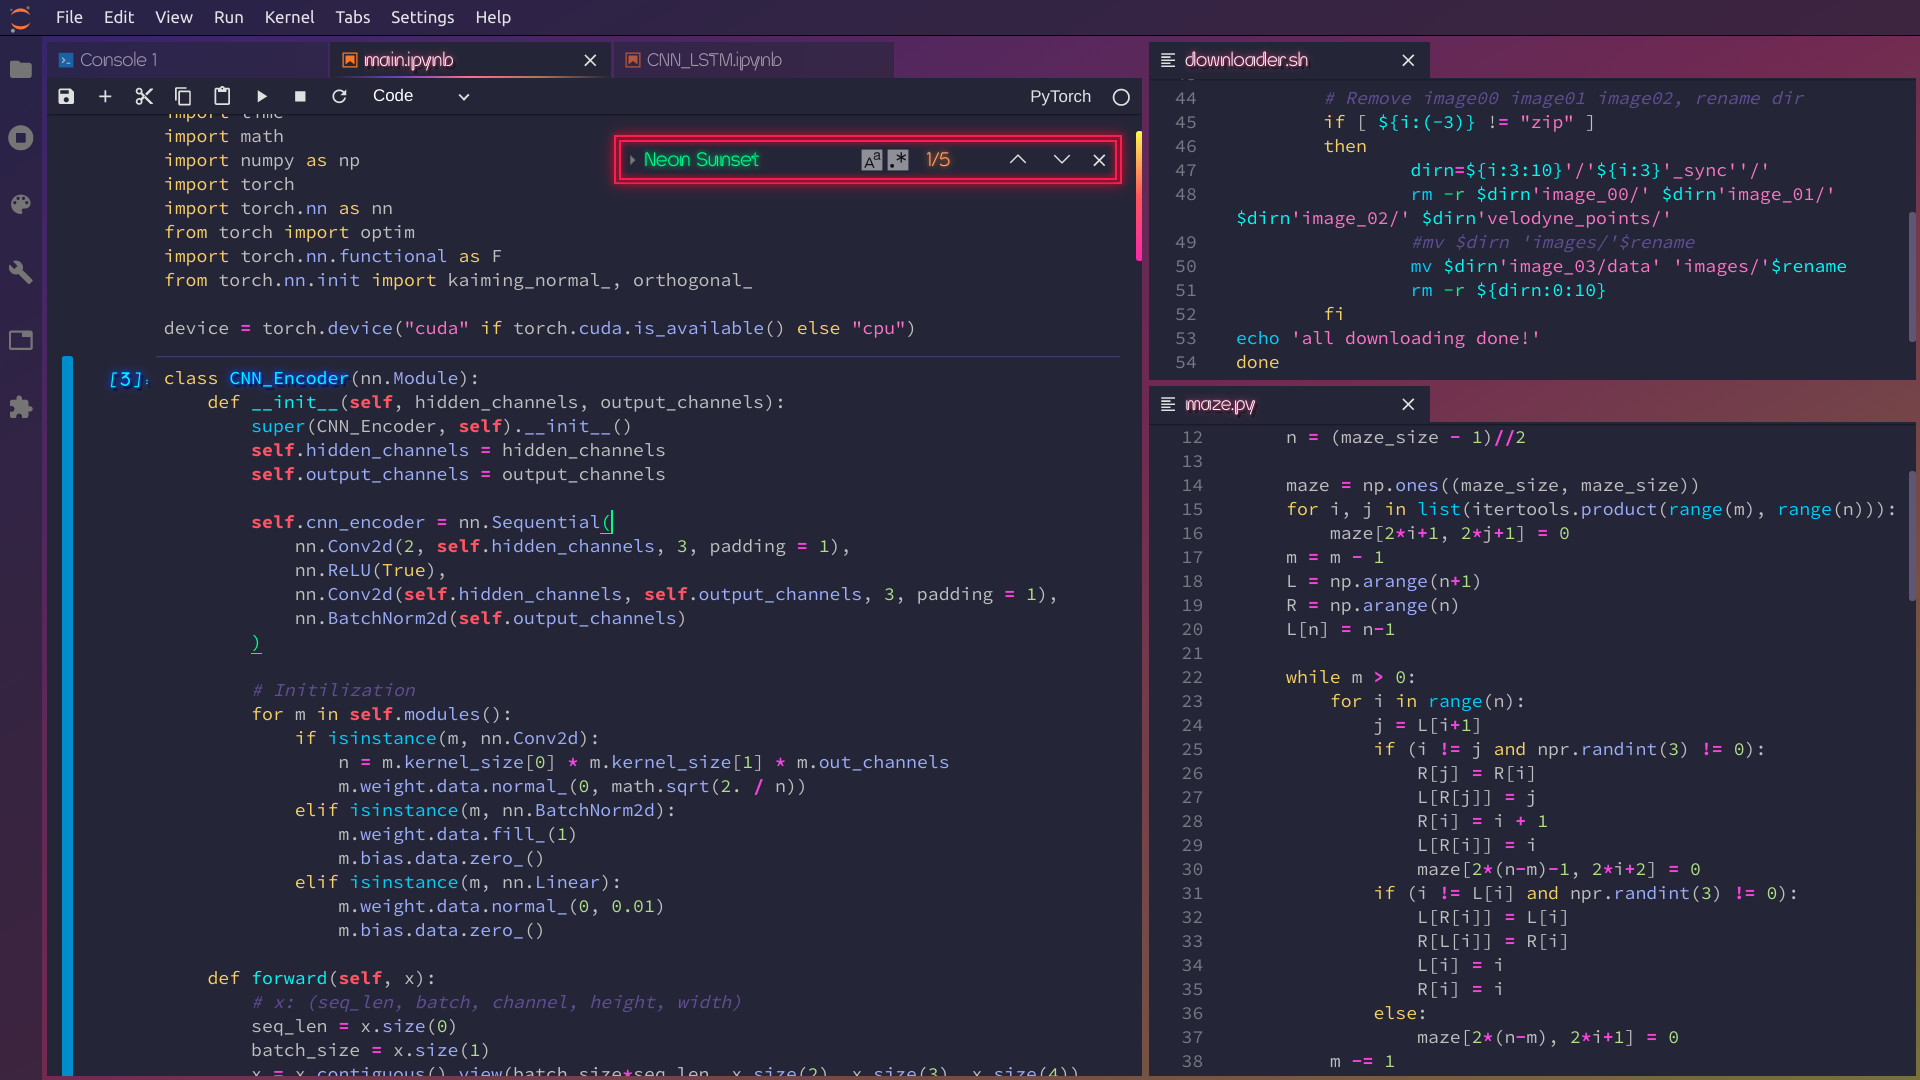
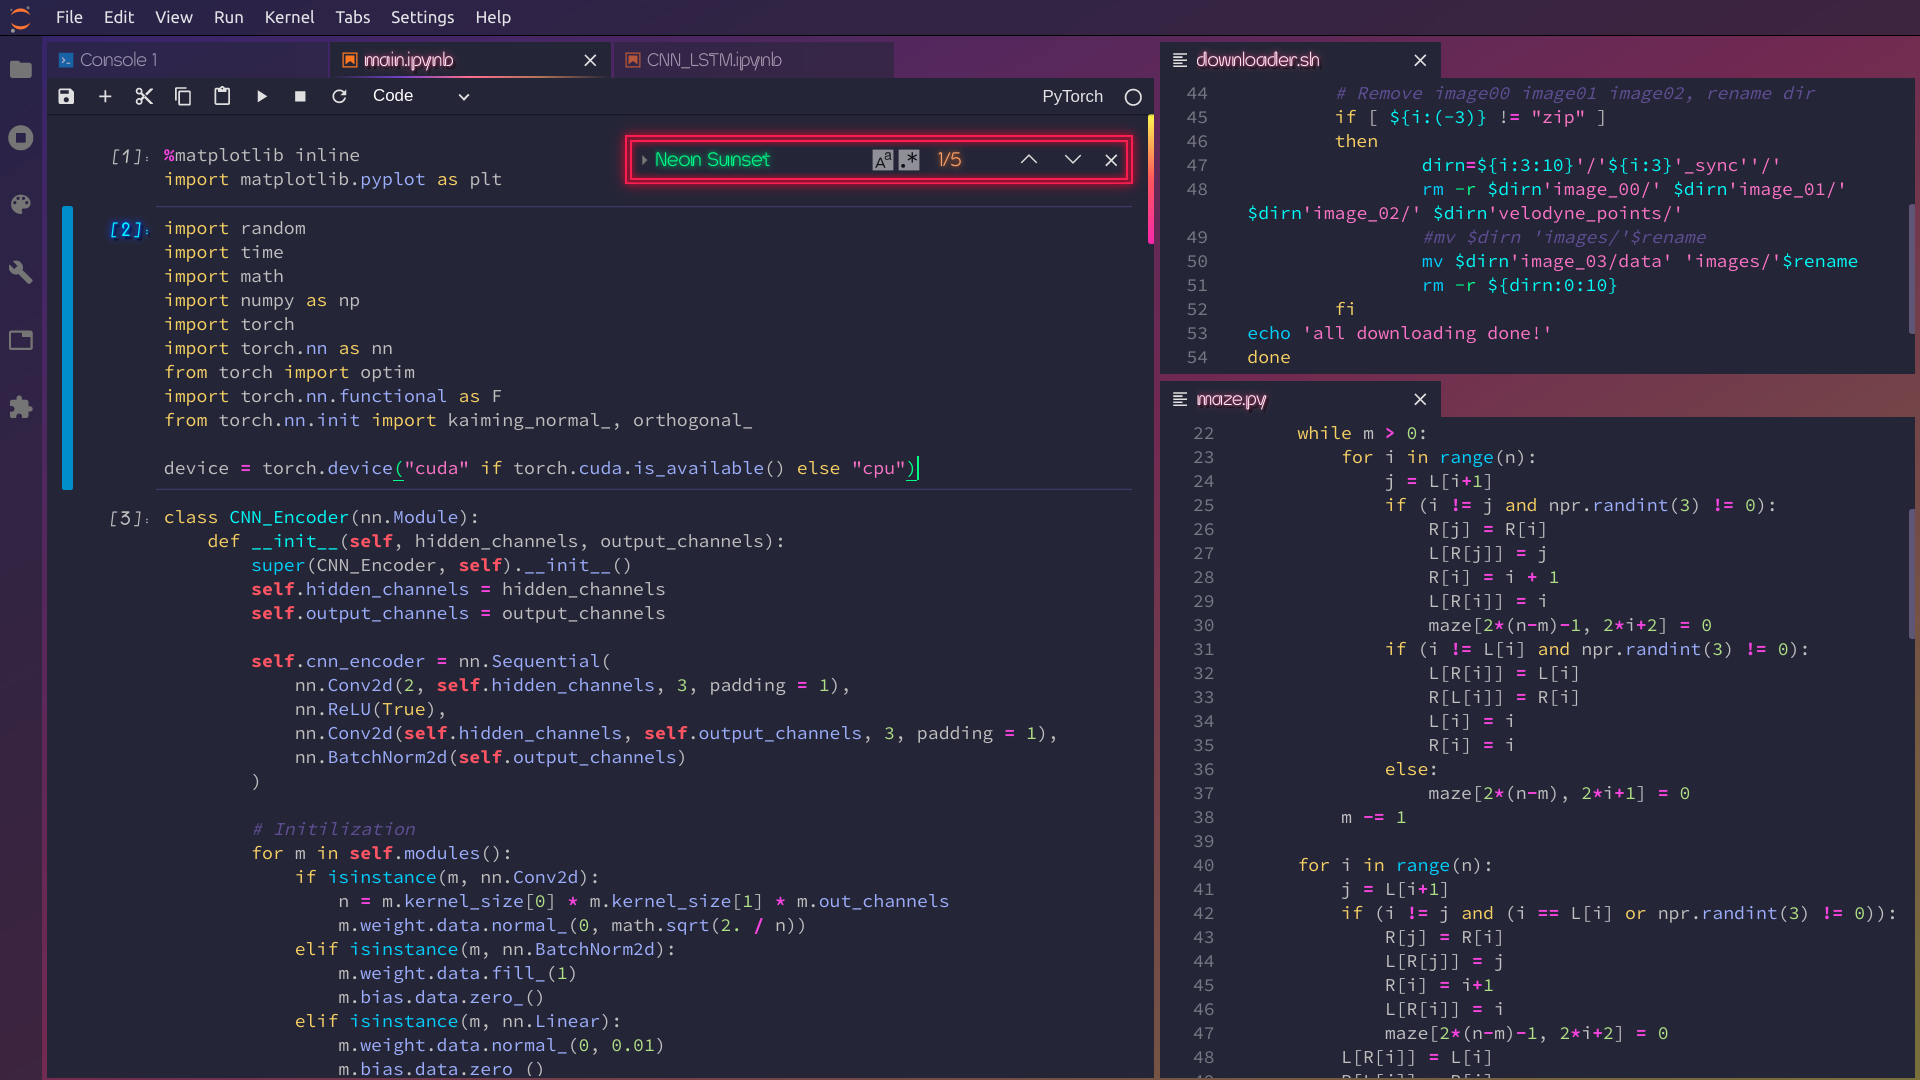
1.0.1 fix console layout

diff --git a/style/style.css b/style/style.css
@@ -146,11 +146,6 @@ div.CodeMirror span.CodeMirror-nonmatchingbracket {
   opacity: 0;
 }
 
-.jp-CodeConsole-content .jp-Cell .jp-Collapser:hover {
-  opacity: 1;
-  box-shadow: none;
-}
-
 /* Neon off*/
 .jp-Cell.jp-mod-active .jp-InputCollapser.jp-Cell-inputCollapser, 
 .jp-InputCollapser.jp-Cell-inputCollapser.jp-Collapser, 
@@ -192,6 +187,17 @@ div.CodeMirror span.CodeMirror-nonmatchingbracket {
 /* Let's lit neon in the presentation mode~ */
 .jp-mod-presentationMode .jp-Notebook .cm-s-jupyter span.cm-def {
   text-shadow: var(--neon-night-text-shadow0);
+}
+
+/* Console */
+.jp-CodeConsole-content .jp-Cell .jp-Collapser:hover {
+  opacity: 1;
+  box-shadow: none;
+}
+
+.jp-ConsolePanel::before {
+  border-bottom: none;
+  box-shadow: none;
 }
 
 /* Top, side, bottom bar */

diff --git a/style/variables.css b/style/variables.css
@@ -337,7 +337,7 @@ all of MD as it is not optimized for dense, information rich UIs.
   /* Toolbar specific styles */
 
   --jp-toolbar-border-color: var(--jp-border-color2);
-  --jp-toolbar-micro-height: 1px;
+  --jp-toolbar-micro-height: 0px;
   --jp-toolbar-background: none;
   --jp-toolbar-box-shadow: 0px 0px 2px 0px rgba(0, 0, 0, 1);
   --jp-toolbar-header-margin: 4px 4px 0px 4px;

diff --git a/README.md b/README.md
@@ -18,7 +18,7 @@ This theme is hightly inspired by artworks of 80's Neon, Synthwave and Cyberpunk
 ## Customize
 You may don't like the default background or the transparent UI, so codes of these controversial designs are put separately into [`custom.css`](https://github.com/yeebc/jupyterlab-neon-theme/tree/master/style/custom.css) and commented detaily for you to customize. 
 
-After you edited css files, please follow instructions the [Development installation](https://github.com/yeebc/jupyterlab-neon-theme#development-installation) to reinstall.
+After you edited css files, please follow instructions in the [Development installation](https://github.com/yeebc/jupyterlab-neon-theme#development-installation) to reinstall.
 
 ### 1. Transparent left/top bar
 PLease follow the comments to ajust the transparency.
